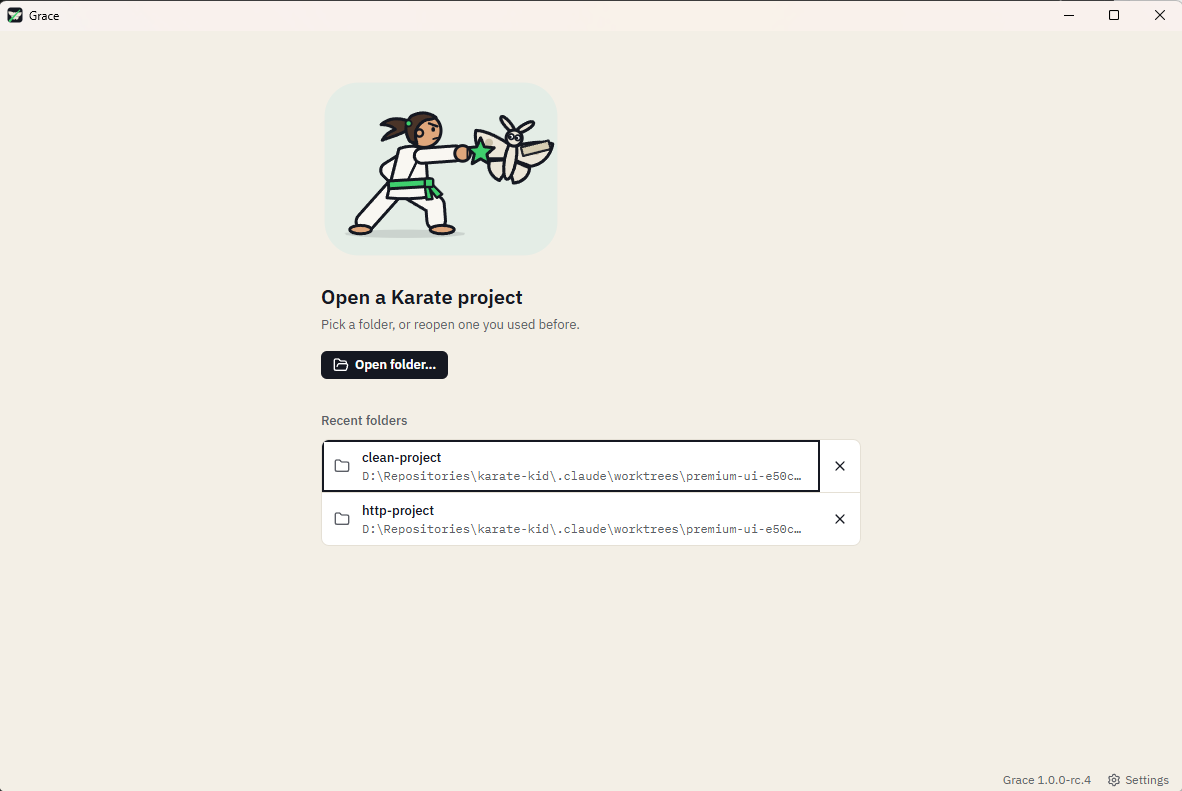
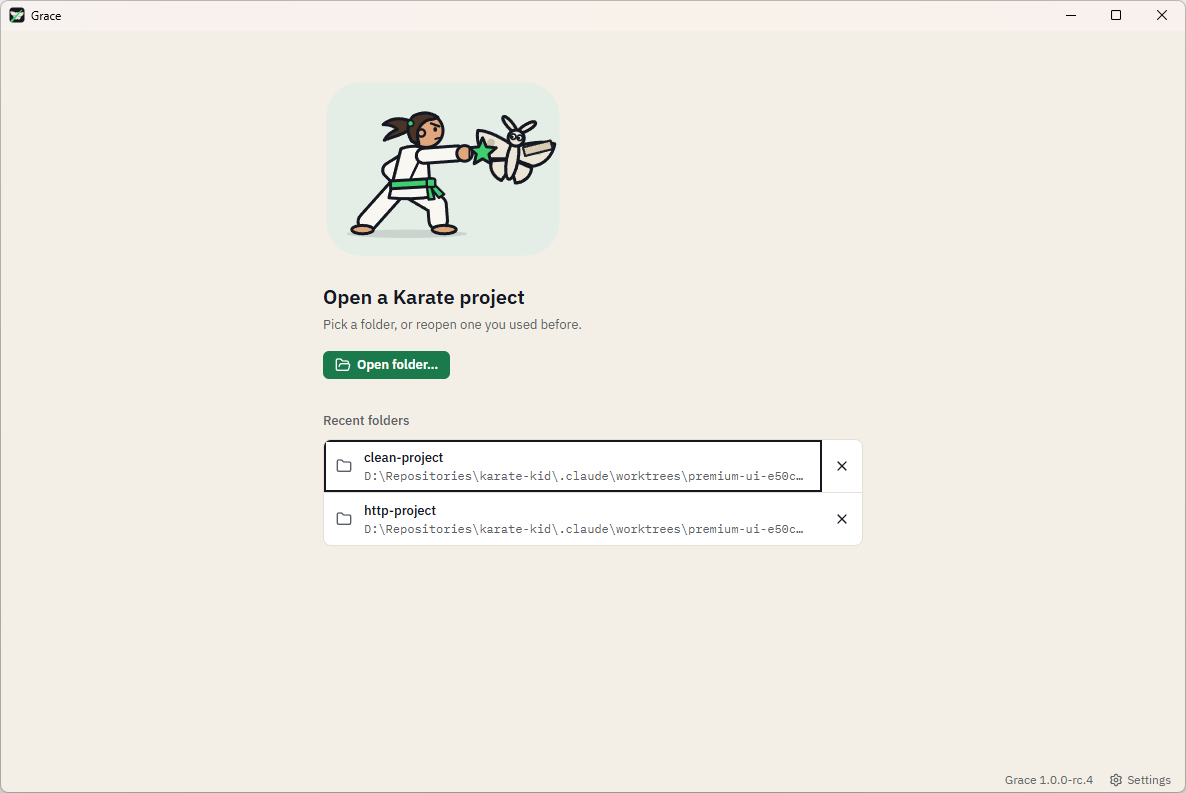
test(ui): retake the by-hand shots on the current build
ring-home-light, ring-project-dark, ring-dialog-dark, ring-settings-light
and appearance-dark were taken on the packaged app before the person's
two decisions and still showed flat dark panels or the near-black button.
They are retaken on a fresh make, with the same Tab counts. The check
record says so and lists the new make, unit and e2e results.

🤖 Generated with [Claude Code](https://claude.com/claude-code)

diff --git a/docs/checks/2026-10-29-premium-ui.md b/docs/checks/2026-10-29-premium-ui.md
@@ -1,7 +1,7 @@
 # App check: premium look and feel (#107)
 
 Date: 2026-10-29
-Branch: `feature/premium-ui`. The code is as at ddb75a3b; the commits since then only edit docs and retake screenshots.
+Branch: `feature/premium-ui`. The code is as at 3102db7e; the commits since then only edit docs and retake screenshots.
 Machine: Windows 11 Pro 10.0.26300 (x64), AMD Ryzen 7 5800X, 32 GB, NVIDIA GeForce RTX 4060 Ti, Windows in dark mode, Node 24.15.0, npm 11.16.0, Electron 45.0.0, bundled Temurin 21.0.12.1 and Karate 2.1.4.
 Spec: [Premium look and feel](../specs/2026-10-29-premium-ui.md), with the [mockup](../specs/2026-10-29-premium-ui-mockup.png) and the [plan](../plans/2026-10-29-premium-ui.md).
 
@@ -11,12 +11,12 @@ The branch restyles every screen to design tokens (IBM Plex, Lucide, one structu
 
 | Check | Result |
 |---|---|
-| `npm run screens` (`e2e/screens.shots.ts`, 1280 × 800, light and dark) | `2 passed (37.9s)`. Wrote the 34 PNGs of `2026-10-29-premium-ui/after/` (17 screens × 2 themes). |
-| `npm test` | First run: `Test Files  1 failed \| 87 passed (88)` and `Tests  2 failed \| 1289 passed (1291)`. The 2 failures are `src/main/updates/switch.test.ts`, EPERM on `rmSync` of its temp folder under the parallel run (the updater flake of `develop`). That file with `startup.test.ts` alone: `Test Files  2 passed (2)`, `Tests  63 passed (63)`. |
+| `npm run screens` (`e2e/screens.shots.ts`, 1280 × 800, light and dark) | `2 passed (37.9s)`. Wrote the 34 PNGs of `2026-10-29-premium-ui/after/` (17 screens × 2 themes). A second run (`2 passed (38.3s)`), after the dark shadow got the light theme's geometry, replaced the five dark dialog shots only (`dark-clear-history-dialog`, `dark-properties-dialog`, `dark-switch-dialog`, `dark-update-dialog`, `dark-update-progress`); the other shots look the same. |
+| `npm test` | First run: `Test Files  1 failed \| 87 passed (88)` and `Tests  2 failed \| 1291 passed (1293)`. The 2 failures are `src/main/updates/switch.test.ts`, EPERM on `rmSync` of its temp folder under the parallel run (the updater flake of `develop`). That file with `startup.test.ts` alone: `Test Files  2 passed (2)`, `Tests  63 passed (63)`. |
 | `npm run typecheck` | `tsc --noEmit`, no output, passed. |
 | `npm run lint` | oxlint reported nothing; oxfmt: `All matched files use the correct format.` |
-| `npm run e2e` | `161 passed (8.3m)`, nothing on stderr. An earlier run, before the passed-green change, had `2 failed` and `159 passed (8.6m)`: `home.spec.ts` "A missing last project shows the home screen" and `look.spec.ts` "A tooltip shows after a pause on hover, also on a disabled button", both with no tooltip after a real pointer hover. Nothing they touch changed, and the rerun passed both. |
-| `npm run make` | Passed, before the one-structure and primary-colour changes (styles only); not rerun for them. `Grace-win32-x64-1.0.0-rc.4.zip`, 218,717,090 bytes (208.6 MB). Unzipped: `Grace.exe` (product and file version `1.0.0-rc.4`), `resources/jre/bin/java.exe`, `resources/karate.jar`, `resources/app-files.json`, `resources/licenses/` (181 files). |
+| `npm run e2e` | `161 passed (8.3m)`, nothing on stderr. An earlier run, before the passed-green change, had `2 failed` and `159 passed (8.6m)`: `home.spec.ts` "A missing last project shows the home screen" and `look.spec.ts` "A tooltip shows after a pause on hover, also on a disabled button", both with no tooltip after a real pointer hover. Nothing they touch changed, and the rerun passed both. After the last fix round (one shadow geometry, a stricter dark-block guard, no `brand` token) only `e2e/look.spec.ts` was rerun: `19 passed (44.9s)`. |
+| `npm run make` | Passed, rerun on the code of 3102db7e. `Grace-win32-x64-1.0.0-rc.4.zip`, 218,722,946 bytes (208.6 MB). Unzipped: `Grace.exe` (product and file version `1.0.0-rc.4`), `resources/jre/bin/java.exe`, `resources/karate.jar`, `resources/app-files.json`, `resources/licenses/` (184 files). |
 
 The after shots were retaken after the person's two decisions on the built app (see the deviations) and looked at in both themes: project idle, finished with a failed test, home with recent folders, Settings and the Properties dialog, against the spec. The dark theme shows the same structure as the light one: the toolbar on the `ground` frame, the work on an inset sheet with 16 px corners and a 1 px edge, the status bar below, Home on `ground`. Only colours differ. `Run all`, `Open folder…`, `Update to …` and a dialog's `Save` are the passed green (`#1b7a4c` with white text in light, `#3fcf6e` with ink text in dark), the same green as the passed part of the progress bar. Differences a reader may notice are in the deviations below, not defects.
 
@@ -55,7 +55,7 @@ Not in the table:
 
 ## By hand (done by an agent on the packaged app)
 
-These were done before the person's two decisions (one structure in both themes, the passed-green primary buttons), so the shots in `by-hand/` that show the project screen, a dialog or Settings in the dark theme (`ring-project-dark`, `ring-dialog-dark`, `appearance-dark`) still show the earlier flat dark panels, and `ring-home-light` and `ring-settings-light` the near-black primary button. The startup shots are unchanged. The walks were not repeated: the focus ring and the Appearance setting, which they check, did not change.
+The walks below were first done before the person's two decisions (one structure in both themes, the passed-green primary buttons). Afterwards the five shots they had made of what those decisions changed were taken again on a build of the current code, with the same method and the same Tab counts: `ring-home-light`, `ring-project-dark`, `ring-dialog-dark`, `ring-settings-light` and `appearance-dark`. `appearance-light` and the two startup shots show nothing the decisions touched and were kept. The walks themselves were not repeated: the focus ring and the Appearance setting, which they check, did not change.
 
 Method: `npm run make`, the zip unzipped into a folder under `out/`, `Grace.exe` started with `GRACE_USER_DATA` on a fresh profile whose `settings.json` was written first (the saved appearance, the last project a copy of the `clean` fixture). Keys were sent with SendKeys only while Grace held the foreground (the script stops otherwise; it stopped once, nothing was sent elsewhere). The window, title bar included, was captured from the screen with `CopyFromScreen`. Frames taken before the window shows its ground colour were thrown away unsaved: while Windows plays its show animation it blends the desktop behind the window.
 
@@ -82,7 +82,7 @@ Method: `npm run make`, the zip unzipped into a folder under `out/`, `Grace.exe`
 
 ## Deviations from the spec decided during the build
 
-- The two themes have one structure and differ only in colours (the person, after seeing the built app): the dark theme has the light theme's inset, rounded sheet with its side borders and Home on `ground`, instead of flush panels and Home on `surface`. The dark block of `src/index.css` may override only colour tokens, shadows and the backdrop, and `tokens.test.ts` fails on anything else (R1.2, R3.3, R12.1).
+- The two themes have one structure and differ only in colours (the person, after seeing the built app): the dark theme has the light theme's inset, rounded sheet with its side borders and Home on `ground`, instead of flush panels and Home on `surface`. The dark block of `src/index.css` may override only colour tokens, shadows and the backdrop, and `tokens.test.ts` fails on anything else (R1.2, R3.3, R12.1). The floating shadow has the same offsets and blur in both themes too (R3.5).
 - The primary buttons are the progress bar's passed green, not near-black (the person, after seeing the built app): `#1b7a4c` with white text in light, `#3fcf6e` with ink text in dark. New tokens `primary`, `on-primary` and `primary-hover` replace the `accent` fill, `accent-hover` and `play`; `accent` stays for the tab line, the selection bar, the included tag chip and the splitter (R1.3, R13.2).
 - Tags in tree rows are 20 px chips, not 24 px: 24 px bordered chips in 24 px rows with no gap touched the rows above and below (R15.1, R16.1).
 - The toolbar shows icons only below 1280 px (the buttons keep their accessible names and a tooltip), and the window's minimum width is 760 px so Run all and Cancel stay on screen. The default 1200 px window is therefore icon-only (R13).
